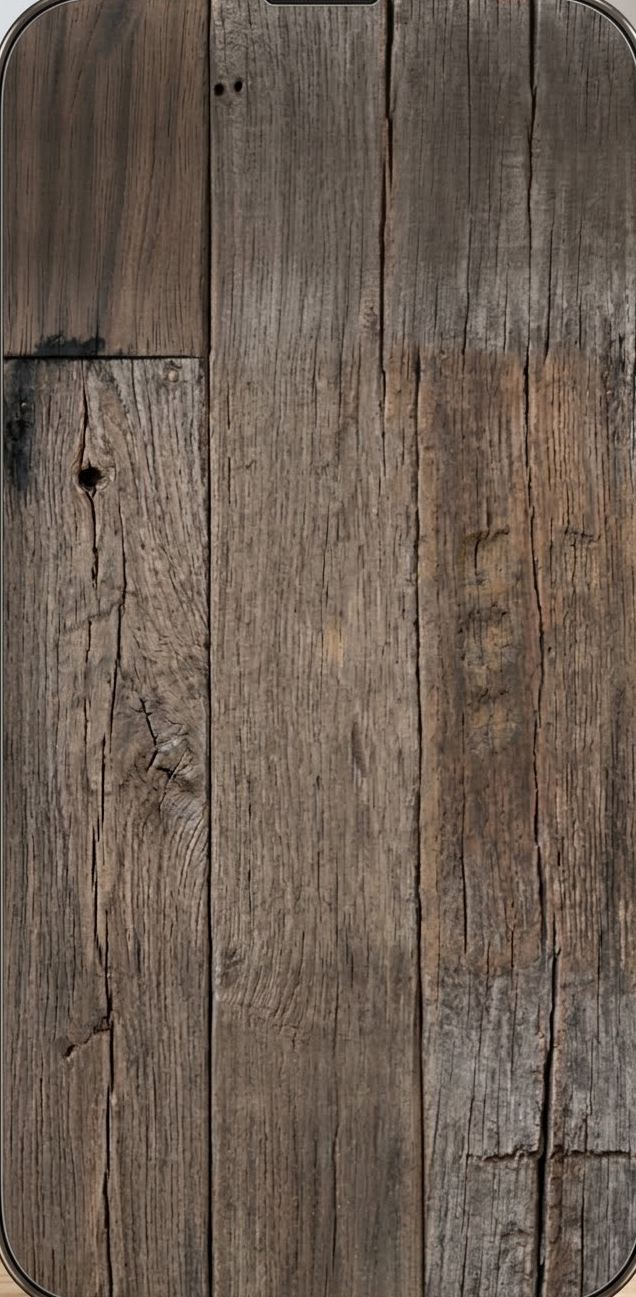
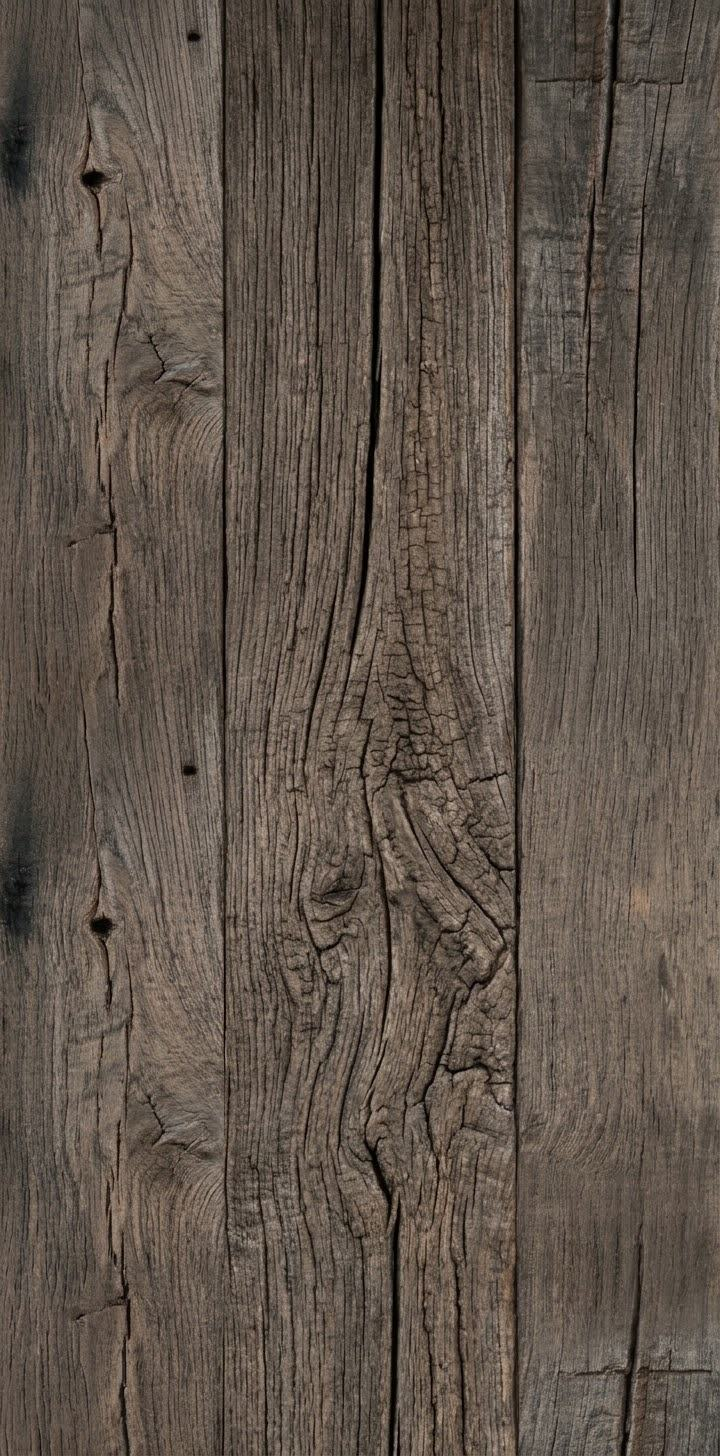
v1.79: die html-Box deckt den ganzen Schirm (lvh) - dritter Anlauf
Lutz' zweiter Screenshot zeigt nach der Ueberhoehe aus v1.78 EXAKT
denselben Balken: rgb(104,92,81) mit Streuung 0 ueber rund 7 % der
Hoehe. Damit ist bewiesen, dass Safari das Bild des Wurzelelements auf
dessen BOX beschneidet und darunter nur die FARBE weiterreicht. Nach
der Spezifikation duerfte es das nicht, aber gemessen ist gemessen -
und damit war der ganze Weg ueber background-size aussichtslos. Die
120 % aus v1.78 haben nichts bewirkt.

Jetzt waechst die Box: min-height:100lvh ist die Viewport-Hoehe mit
eingefahrenen Leisten und deckt den Streifen per Definition. #app ist
position:fixed und bleibt unberuehrt, overflow:hidden haelt alles
unscrollbar - ueber drei Geraete gemessen: nichts scrollt, App-Hoehe
und Brettbreite unveraendert.

NETZ, unabhaengig davon: die Rueckfallfarbe ist jetzt #27211c, die
gemessene Farbe der vignettierten Unterkante (rgb(39,33,28) direkt
ueber dem Balken), statt der mittleren Bildhelligkeit. Erreicht das
Bild eine Flaeche doch nicht, steht dort kein HELLER Balken mehr.
BG_HEX im Skript bleibt #685c51 - das steuert Brettkante und Ampel.

Dazu Lutz' neues Holzbild: 720x1456, deckt den Schirm ohne
Zuschneiden, 226 kB bei Qualitaet 0,76, Ausleuchtung 78/88/90/93/86.

Auch lvh ist in Chromium nicht nachweisbar (dort gleich vh). Geprueft
wird, dass die Regel da ist, nichts scrollbar wird und das Layout
steht - nicht, dass der Streifen weg ist.

Claude-Session: https://claude.ai/code/session_01ChVKrJYHLVFYNTcsCMUMT9

diff --git a/tests/test_browser.js b/tests/test_browser.js
@@ -3261,6 +3261,41 @@ function kurzfassungGleich(proben,voll,erwartet){
   ok('Der Hintergrund hat Struktur in BEIDER Richtung, ist also nicht gezerrt',
      mas.laengs>4 && mas.verhaeltnis<3.5, JSON.stringify(mas));
 
+  /* v1.79: Die Ueberhoehe allein hat es NICHT geloest. Lutz' zweiter
+     Screenshot zeigte denselben Balken, wieder rgb(104,92,81) mit
+     Streuung 0 - Safari beschneidet das Bild des Wurzelelements auf
+     dessen Box und reicht darunter nur die Farbe weiter. Daran aendert
+     keine background-size etwas; die BOX muss wachsen. lvh ist die Hoehe
+     des Viewports mit eingefahrenen Leisten und deckt den Streifen damit
+     per Definition. Auch das ist in Chromium nicht nachweisbar (dort ist
+     lvh gleich vh) - geprueft wird, dass die Regel da ist, dass sie
+     nichts scrollbar macht und dass das Layout unveraendert bleibt. */
+  const box=await page.evaluate(()=>{
+    const h=document.documentElement;
+    const roh=[...document.styleSheets].flatMap(sh=>{ try{ return [...sh.cssRules]; }catch(e){ return []; } })
+      .filter(r=>r.selectorText==='html').map(r=>r.style.minHeight).filter(Boolean);
+    const vor=window.scrollY; window.scrollTo(0,300); const nach=window.scrollY; window.scrollTo(0,vor);
+    return {regel:roh, ueberlauf:getComputedStyle(h).overflow,
+            scrollHoehe:h.scrollHeight, sicht:window.innerHeight, gescrollt:nach,
+            app:Math.round(document.getElementById('app').getBoundingClientRect().height),
+            brett:Math.round(document.getElementById('board').getBoundingClientRect().width),
+            rueckfall:getComputedStyle(h).backgroundColor}; });
+  console.log('INFO html-Box: '+JSON.stringify(box));
+  ok('HTML traegt eine min-height in lvh - nur so deckt seine Box den Streifen',
+     box.regel.some(r=>/lvh/.test(r)), JSON.stringify(box.regel));
+  ok('Dadurch wird nichts scrollbar - #app ist fixed, der Rest bleibt stehen',
+     box.gescrollt===0, JSON.stringify(box));
+  ok('Das Layout bleibt unveraendert - App fuellt den Viewport, Brett unveraendert',
+     box.app===box.sicht && box.brett>300, JSON.stringify(box));
+  /* Das Netz dahinter: wenn das Bild eine Flaeche doch nicht erreicht,
+     darf dort kein HELLER Balken stehen. Die Rueckfallfarbe traegt
+     deshalb die Farbe der vignettierten Unterkante (gemessen rgb(39,33,28)
+     direkt ueber dem Balken), nicht mehr die mittlere Bildhelligkeit
+     BG_HEX (rgb(104,92,81)) - genau die war zweimal der sichtbare Fehler. */
+  const rf=(box.rueckfall.match(/\d+/g)||[]).map(Number);
+  ok('Die Rueckfallfarbe ist dunkel, nicht die helle mittlere Bildfarbe',
+     rf.length>=3 && rf[0]*.299+rf[1]*.587+rf[2]*.114 < 60, box.rueckfall);
+
   /* "Deutlicher" darf keine Breite kosten. Gemessen wird deshalb die Breite,
      die der Text EINZEILIG braucht, gegen die Spalte, die er hat - nicht die
      Schriftstaerke. Mit font-weight:600 brauchte "Uebrig von 32" 79,4 statt

diff --git a/index.html b/index.html
@@ -23,6 +23,18 @@
 *{box-sizing:border-box;-webkit-tap-highlight-color:transparent}
 html,body{margin:0;height:100%;background:var(--bg);color:var(--ink);font-family:var(--sans);overflow:hidden;
   -webkit-user-select:none;user-select:none;-webkit-touch-callout:none}
+/* DIE BOX VON HTML MUSS DEN GANZEN SCHIRM DECKEN (v1.79). Safari
+   beschneidet das Hintergrundbild des Wurzelelements auf dessen Box und
+   reicht darunter nur die FARBE weiter - zweimal gemessen, in zwei
+   Screenshots von Lutz, beide Male rgb(104,92,81) mit Streuung 0 ueber
+   rund 7 % der Hoehe, also exakt BG_HEX. Daran aendert keine Groesse des
+   Hintergrunds etwas, auch keine Ueberhoehe (v1.78 versuchte 120 % und
+   kam nicht hin). Also waechst die Box selbst: lvh ist die Hoehe des
+   Viewports MIT eingefahrenen Safari-Leisten, deckt den Streifen also per
+   Definition. #app ist position:fixed und bleibt davon unberuehrt,
+   overflow:hidden verhindert, dass etwas scrollbar wird. Browser ohne lvh
+   behalten schlicht die 100 % darueber. */
+html{min-height:100lvh}
 button{font:inherit;color:inherit;background:none;border:0;padding:0;margin:0;cursor:pointer}
 button:focus-visible,[tabindex]:focus-visible{outline:2px solid var(--brass2);outline-offset:2px}
 [hidden]{display:none!important}
@@ -518,7 +530,15 @@ header .boardname:active{background:var(--panel2)}
    beschnitten, das faellt bei Maserung nicht auf. */
 html{background:
   radial-gradient(ellipse 130% 70.83% at 50% 35%, rgba(0,0,0,0) 0%, rgba(0,0,0,.18) 55%, rgba(0,0,0,.55) 100%) top center/100% 120% no-repeat,
-  url('3-holz.jpg') top center/auto 120% no-repeat, #685c51}
+  url('3-holz.jpg') top center/auto 120% no-repeat, #27211c}
+/* Die Rueckfallfarbe ist BEWUSST NICHT BG_HEX (v1.79). Sie ist das, was
+   man sieht, wenn das Bild eine Flaeche nicht erreicht - und genau als
+   heller Balken ist sie Lutz zweimal aufgefallen (rgb(104,92,81) gegen
+   rgb(39,33,28) direkt darueber). Sie traegt jetzt die gemessene Farbe
+   der vignettierten Unterkante, ist also selbst im Fehlerfall kaum zu
+   sehen. Das ist ein NETZ, nicht die Loesung - die ist die lvh-Box oben.
+   BG_HEX im Skript bleibt #685c51: das ist die mittlere Helligkeit des
+   Bildes und steuert Brettkante und Ampel, eine ganz andere Frage. */
 body{background:transparent}
 /* Helle Schrift auf Holz braucht eine Kante, sonst franst sie in die
    Maserung aus. Chips und Fussleiste haben ihren eigenen dunklen Grund und
@@ -678,7 +698,7 @@ header, .hud, #status{ text-shadow:0 1px 3px rgba(0,0,0,.75) }
 
 <script>
 'use strict';
-const APP_VERSION='1.78';
+const APP_VERSION='1.79';
 /* =========================================================================
    Kern: Bretter, Züge, Symmetrien, Paritäts-Schranke, Solver
    (als Fabrik, damit derselbe Code im Web Worker läuft)

diff --git a/CLAUDE.md b/CLAUDE.md
@@ -1,6 +1,6 @@
 # Solitaire – Steckbrett-Solitär als Spiel- und Lernapp (iPhone, GitHub Pages)
 
-Stand: v1.78 (22.09.2026). Eine einzige Datei `index.html`, kein Build, keine Abhängigkeiten.
+Stand: v1.79 (22.09.2026). Eine einzige Datei `index.html`, kein Build, keine Abhängigkeiten.
 Autor/Product Owner: Lutz („Neo"). Sprache im Chat und in der App: Deutsch, per Du.
 
 ## Was die App kann
@@ -84,6 +84,11 @@ Autor/Product Owner: Lutz („Neo"). Sprache im Chat und in der App: Deutsch, pe
   **Das reichte nicht, und der Grund ist eine zweite Hälfte derselben Regel** (v1.78). Lutz' nächster Screenshot zeigte den Streifen unverändert. Ausgemessen: `rgb(104,92,81)`, **Streuung 0** über 176 von 2556 Zeilen – exakt `BG_HEX`, also die **Rückfallfarbe der eigenen Zeile**. Der Umzug hatte gewirkt, aber nur für die Farbe: Der Hintergrund des Wurzelelements wird zwar über die ganze Zeichenfläche gemalt, das **Bild darin aber nach der Box von `html`** bemessen und platziert. Mit `100% 100%` endet es am Viewport und konnte den Streifen **nie** erreichen. Jetzt ragt es 20 % darüber hinaus (`120%`, oben ausgerichtet) – dreifacher Abstand zu den gemessenen 6,9 %.
   **Die Vignette ist gegengerechnet, nicht neu geschätzt**: Mitte 42 %/1,2 = **35 %**, senkrechter Radius 85 %/1,2 = **70,83 %**. Damit bleibt im Viewport alles wie vorher – gemessen über fünf Bänder: Abweichung 0–10 von 765. Nur ganz unten wird es heller (36 → 58), und das ist gewollt: vorher sprang es von 36 auf die flache 104, jetzt läuft das Foto durch. Eine Prüfung rechnet beide Zahlen gegen die Überhöhe nach, damit sie beim nächsten Anfassen nicht auseinanderlaufen.
   **In Chromium ist dieser Fall NICHT nachstellbar** – mit verkürzter `html`-Box malt Chromium darunter etwas anderes als Safari (gemessen Streuung 9 statt 0). Eine Pixelmessung täuschte hier Sicherheit vor; geprüft wird deshalb die Geometrie, die den Streifen deckt.
+- **Die Box von HTML muss den ganzen Schirm decken – die Hintergrund-Größe kann es nicht** (`html{min-height:100lvh}` – v1.79). **Dritter Anlauf, und die ersten beiden waren beide falsch begründet.**
+  **Der Befund, zweimal gemessen und zweimal gleich**: In Lutz' Screenshots vom 19:49 **und** vom 20:22 – letzterer mit der Überhöhe aus v1.78 – steht derselbe Balken: `rgb(104,92,81)`, **Streuung 0**, über rund 7 % der Höhe. Also exakt die Rückfallfarbe. **Safari beschneidet das Bild des Wurzelelements auf dessen Box und reicht darunter nur die Farbe weiter.** Nach der Spezifikation dürfte es das nicht – das Bild soll über die ganze Zeichenfläche gemalt werden –, aber gemessen ist gemessen.
+  **Damit war der ganze Weg über `background-size` von vornherein aussichtslos**, und die 120 % aus v1.78 haben genau nichts bewirkt. Die **Box** muss wachsen: `lvh` ist die Viewport-Höhe mit **eingefahrenen** Safari-Leisten und deckt den Streifen damit per Definition. `#app` ist `position:fixed` und bleibt unberührt, `overflow:hidden` verhindert, dass etwas scrollbar wird – gemessen über drei Geräte: nichts scrollt, App-Höhe und Brettbreite unverändert.
+  **Auch das ist in Chromium nicht nachweisbar** (dort ist `lvh` gleich `vh`). Geprüft wird deshalb, dass die Regel da ist, dass nichts scrollbar wird und dass das Layout unverändert bleibt – nicht, dass der Streifen weg ist. **Drei Runden an derselben Stelle sind der Preis dafür, dass der entscheidende Browser hier nicht läuft.**
+  **Dazu ein Netz, das unabhängig davon wirkt**: Die **Rückfallfarbe** ist jetzt `#27211c` – die gemessene Farbe der vignettierten Unterkante (`rgb(39,33,28)` direkt über dem Balken) statt der mittleren Bildhelligkeit. Erreicht das Bild eine Fläche doch einmal nicht, steht dort kein **heller** Balken mehr. `BG_HEX` im Skript bleibt `#685c51` – das steuert Brettkante und Ampel und beantwortet eine ganz andere Frage.
 - **Ein Querformat lässt sich nicht hochkant ziehen** (`3-holz.jpg` jetzt **636 × 1297**, `background-size: auto 120%` – v1.78). Lutz am 22.09.2026: „das Bild auch zu klein, mal was runtergezogen, aber das sieht auch unscharf aus."
   **Die Zahl, die ich hätte prüfen müssen**: Das Bild war **708 × 320 quer** und wurde auf 1170 × 3038 Gerätepunkte gezogen – waagerecht 1,65-fach, senkrecht **9,5-fach**. Jedes senkrechte Detail war neunfach verschmiert. Ein Bild dieser Form **kann** einen hochkanten Bildschirm nicht scharf füllen, bei keiner Einstellung: proportional bräuchte es denselben Faktor 9,5.
   **Die Quelle ist Lutz' neues Bild** (768 × 1375, ein Gerät mit Holz auf dem Bildschirm). Der Bildschirmbereich ist über die **Kantenenergie** gefunden, nicht geschätzt: der Rahmen zeigt sich als Spitze bei x = 49 und 705, y = 25 und 1339; geschnitten wird 62/36 bis 698/1333. Ausleuchtung über fünf Bänder 81/99/105/98/93 – gleichmäßig genug, das Herausrechnen aus v1.76 entfällt (es kostet selbst Schärfe). 150 kB bei Qualität 0,78.
@@ -269,6 +274,7 @@ Autor/Product Owner: Lutz („Neo"). Sprache im Chat und in der App: Deutsch, pe
 - **Icon** (`2-icon.png` 180 px, `2-icon-1024.png` 1024 px): Foto eines Nussbaumbretts mit bunten Murmeln, von Lutz beigesteuert. Entscheidend war der Vergleich bei 58 px – der Größe auf dem Home-Bildschirm: Große, satte Murmeln mit Schatten ergeben dort noch ein erkennbares Kreuz, das früher gerenderte Brett zerfiel in Pixelrauschen. Nicht die Zahl der Elemente entscheidet, sondern ob sie zusammen eine Form ergeben. 16 px des Originals ringsum beschnitten (helle Ecken).
 - **Standardthema** bleibt `glas` („Samt & Glas“, blaues Brett). Die Nussbaum-Optik aus dem Startbild ist als Thema „Nussbaum & Glas“ wählbar und liefert zugleich das Motiv für das Home-Bildschirm-Icon (`2-icon.png`), aber nicht das Spielbrett.
 - **Versionszählung (Vorgabe von Lutz).** Die zweite Stelle zählt die **Auslieferungen**, die etwas Sichtbares verändert haben – `index.html` oder die Icons: v1.1 war der hochgeladene Stand, danach 16 weitere → v1.17. Reine Doku- oder Test-Commits zählen nicht mit (`git log --oneline <stand>..HEAD -- index.html | wc -l`). Die erste Stelle bleibt für neue Substanz reserviert – Lernsystem, Offline-Betrieb, ein weiteres Brett. `APP_VERSION` ist die einzige Quelle; sie steht im Startbild (`#splashVersion`) und im Menü, beide werden im Test dagegen geprüft.
+- **v1.79** (22.09.2026): Der braune Balken unten ist dritter Anlauf – Safari beschneidet das Hintergrundbild auf die Box von `html`, also hilft keine Bildgröße; jetzt reicht die Box selbst über den ganzen Schirm (`lvh`). Dazu Lutz' neues, großes Holzbild und eine dunkle Rückfallfarbe als Netz.
 - **v1.78** (22.09.2026): Der Streifen unten war immer noch da – das Hintergrundbild wird nach der Box von `html` bemessen und endete am Viewport; jetzt ragt es 20 % darüber hinaus. Und das Holz war unscharf, weil ein Querformat (708 × 320) neunfach in die Höhe gezogen wurde – jetzt ein hochkantes Bild aus Lutz' neuer Vorlage, seitenrichtig skaliert.
 - **v1.77** (22.09.2026): Unten war der Hintergrund flaches Braun statt Holz – das Bild lag auf `body`, der Streifen darunter nimmt seine Farbe aber von `html`. Beschriftungen auf dem Holz deutlicher (heller mit dunklem Hof statt fett – fett hätte die Zählerzeile umgebrochen und lange Meldungen abgeschnitten). Ton: ein von iOS geschlossener Audio-Kontext wird jetzt neu gebaut statt stumm weitergereicht.
 - **v1.76** (22.09.2026): Neues Aussehen – die App liegt auf verwittertem Holz, und das englische Brett ist ein echtes altes Brett mit Eisenrahmen und gebohrten Löchern. Neuer Standard; die anderen Bretter bleiben gezeichnet.
